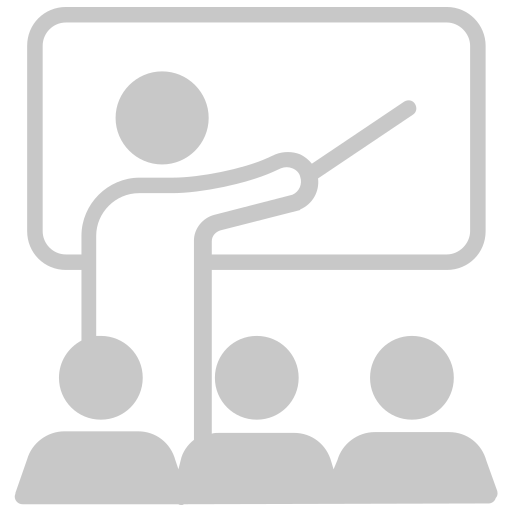
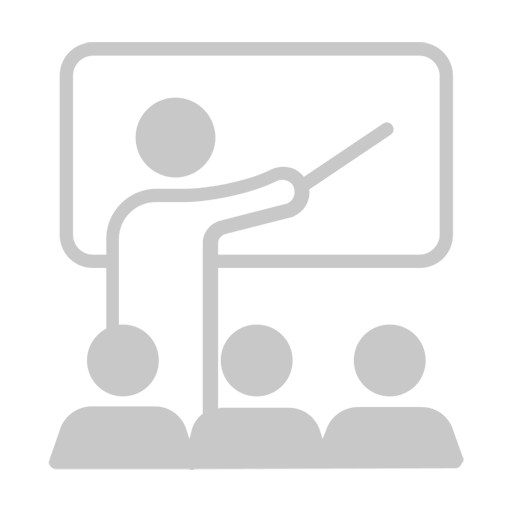
atualização aba sobre

diff --git a/sobre.html b/sobre.html
@@ -37,8 +37,8 @@
         <li class="navbar-li"><a href="/jogos.html">jogos</a></li>
         <li class="navbar-li dropdown">
           <a class="dropdown-toggle">
-            CAPLOL 
-            <img src="./assets/img/icones/seta-baixo.png">
+            CAPLOL
+            <img src="./assets/img/icones/seta-baixo.png" />
           </a>
           <div class="dropdown-menu">
             <a href="/regras.html"> regras </a>
@@ -88,7 +88,75 @@
       <br />
       <h1>CAPLOL</h1>
     </div>
-    
+
+    <div class="sobre">
+      <div class="sobre-conteudo">
+        <div class="texto">
+          <h1>COMO FUNCIONA O CAPLOL?</h1>
+          <p>
+            O CAPLOL é composto por 3 etapas.
+            <br /><br />
+            <b>1. Fase de pontos</b>
+            <br /><br />
+            &nbsp;&nbsp;&nbsp;&nbsp;&nbsp; Nessa etapa os 12 times cadastrados
+            se enfrentam, cada time se confronta uma vez em uma MD1 (Melhor de
+            1).
+            <br /><br />
+            <b>1º</b> até <b>4º</b> vão pra chave superior <br />
+            <b>5º</b> até <b>8º</b> vão pra chave inferior <br />
+            <b>9º</b> até <b>12º</b> são eliminados <br />
+          </p>
+        </div>
+        <img src="./assets/img/icones/tutorial.png" />
+      </div>
+    </div>
+
+    <div class="sobre">
+      <div class="sobre-conteudo">
+        <img src="./assets/img/icones/tutorial.png" />
+        <div class="texto">
+          <p>
+            <b>2. Play-offs/Mata a Mata</b>
+            <br /><br />
+            &nbsp;&nbsp;&nbsp;&nbsp;&nbsp;Acontecerá no formato de
+            <b>Eliminação Dupla</b>. Os times que terminarem em
+            <b>5° até 8º</b> colocação vão para a chave inferior, enquanto os
+            que terminarem entre o <b>1° e 4°</b> lugar vão para a chave
+            superior. É válido destacar que o time que terminar na primeira
+            colocação da Fase de Grupos
+            <b>tem o direito de escolher o adversário</b> podendo ser o
+            <b>3º</b> ou o <b>4º</b> colocado.
+          </p>
+        </div>
+      </div>
+      <img src="./assets/img/icones/play-off.png" />
+    </div>
+
+    <div class="sobre">
+      <div class="sobre-conteudo">
+        <div class="texto">
+          <p>
+            <b>3. Grande final</b>
+            <br /><br />
+            &nbsp;&nbsp;&nbsp;&nbsp;&nbsp; Na final o
+            <b>finalista superior</b> e o <b>finalista inferior</b> vão se
+            enfretar em uma MD5 (Melhor de 5). O finalista superior tem o
+            direito de escolhar o lado nos jogos 1, 3 e 5 enquanto o finalista
+            inferior escolhe os lados nos jogos 2 e 4. <br /><br />
+            Desse confronto se consagra o grande campeão do
+
+            
+            <b>CAPLOL</b>
+            <img
+            src="./assets/img/icones/trofeu.png"
+            style="width: 20px; height: 20px; vertical-align: middle;"
+          />
+          </p>
+        </div>
+        <img src="./assets/img/icones/tutorial.png" />
+      </div>
+    </div>
+
     <hr class="hr-ball" />
 
     <hr />

diff --git a/assets/css/sobre.css b/assets/css/sobre.css
@@ -1,4 +1,8 @@
 .sobre {
+    display: flex;
+    justify-content: center;
+    align-items: center;
+    flex-direction: column;
     background-color: #242424;
 }
 
@@ -30,7 +34,13 @@
     margin: 0;
 }
 
-img {
+.sobre img {
+
+    width: 65%;
+    height: 65%;    
+}
+
+.sobre-conteudo img {
     width: 300px;
     height: 300px;
 }
